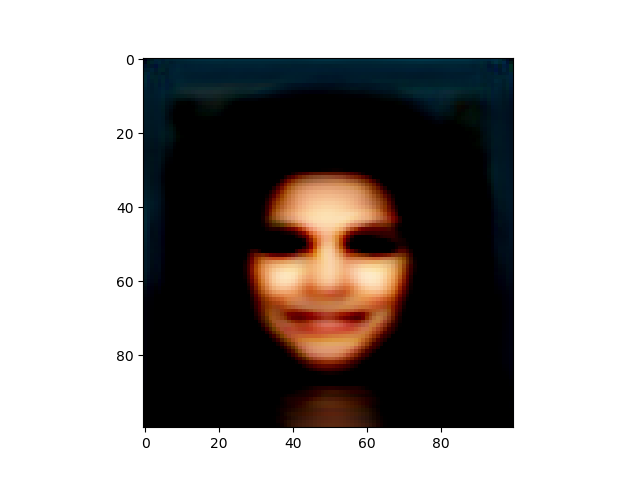
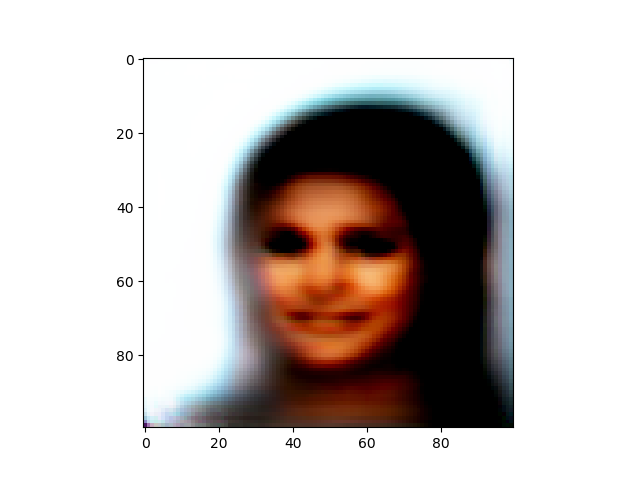
update

diff --git a/main.py b/main.py
@@ -103,5 +103,24 @@ for epoch in range(20):
     plt.imshow(generated_img)
     plt.savefig("generations/epoch-{}.png".format(epoch+1))
 
+    # plot the latent space
+    counter = 0
+    limit = 2500
+    X = []
+    Y = []
+
+    for x, _ in testloader:
+      if counter >= limit:
+        break
+      x = x.cuda().float()
+      x_pred, mu, logvar = vae.forward(x)
+      z = vae.__reparam__(mu, logvar).detach().cpu().numpy()
+      X.append(z[:, 0])
+      Y.append(z[:, 1])
+      plt.clf()
+      plt.plot(X, Y, 'ro')
+      plt.savefig("visualizations/epoch-{}.png".format(epoch+1))
+      counter += len(x.detach().cpu().numpy())
+
 # save the torch model
 torch.save(vae.state_dict(), "CelebA-VAE-State-Dict.pth")

diff --git a/CelebADataset.py b/CelebADataset.py
@@ -11,9 +11,9 @@ class CelebADataset(data.Dataset):
     self.df = df
 
     if training:
-      self.filenames = os.listdir(self.img_dir)[:150000]
+      self.filenames = os.listdir(self.img_dir)[:10000]
     else:
-      self.filenames = os.listdir(self.img_dir)[150001:]
+      self.filenames = os.listdir(self.img_dir)[10001:15000]
 
     if shuffle:
       self.filenames = utils.shuffle(self.filenames)

diff --git a/CelebAVAE.py b/CelebAVAE.py
@@ -20,7 +20,7 @@ class CelebAVAE(nn.Module):
   def __init__(self):
     super().__init__()
 
-    self.drop = nn.Dropout2d(p=0.2, inplace=True)
+    self.drop = nn.Dropout2d(p=0.25, inplace=True)
 
     self.encoder = nn.Sequential(
       nn.Conv2d(3, 16, 5),
